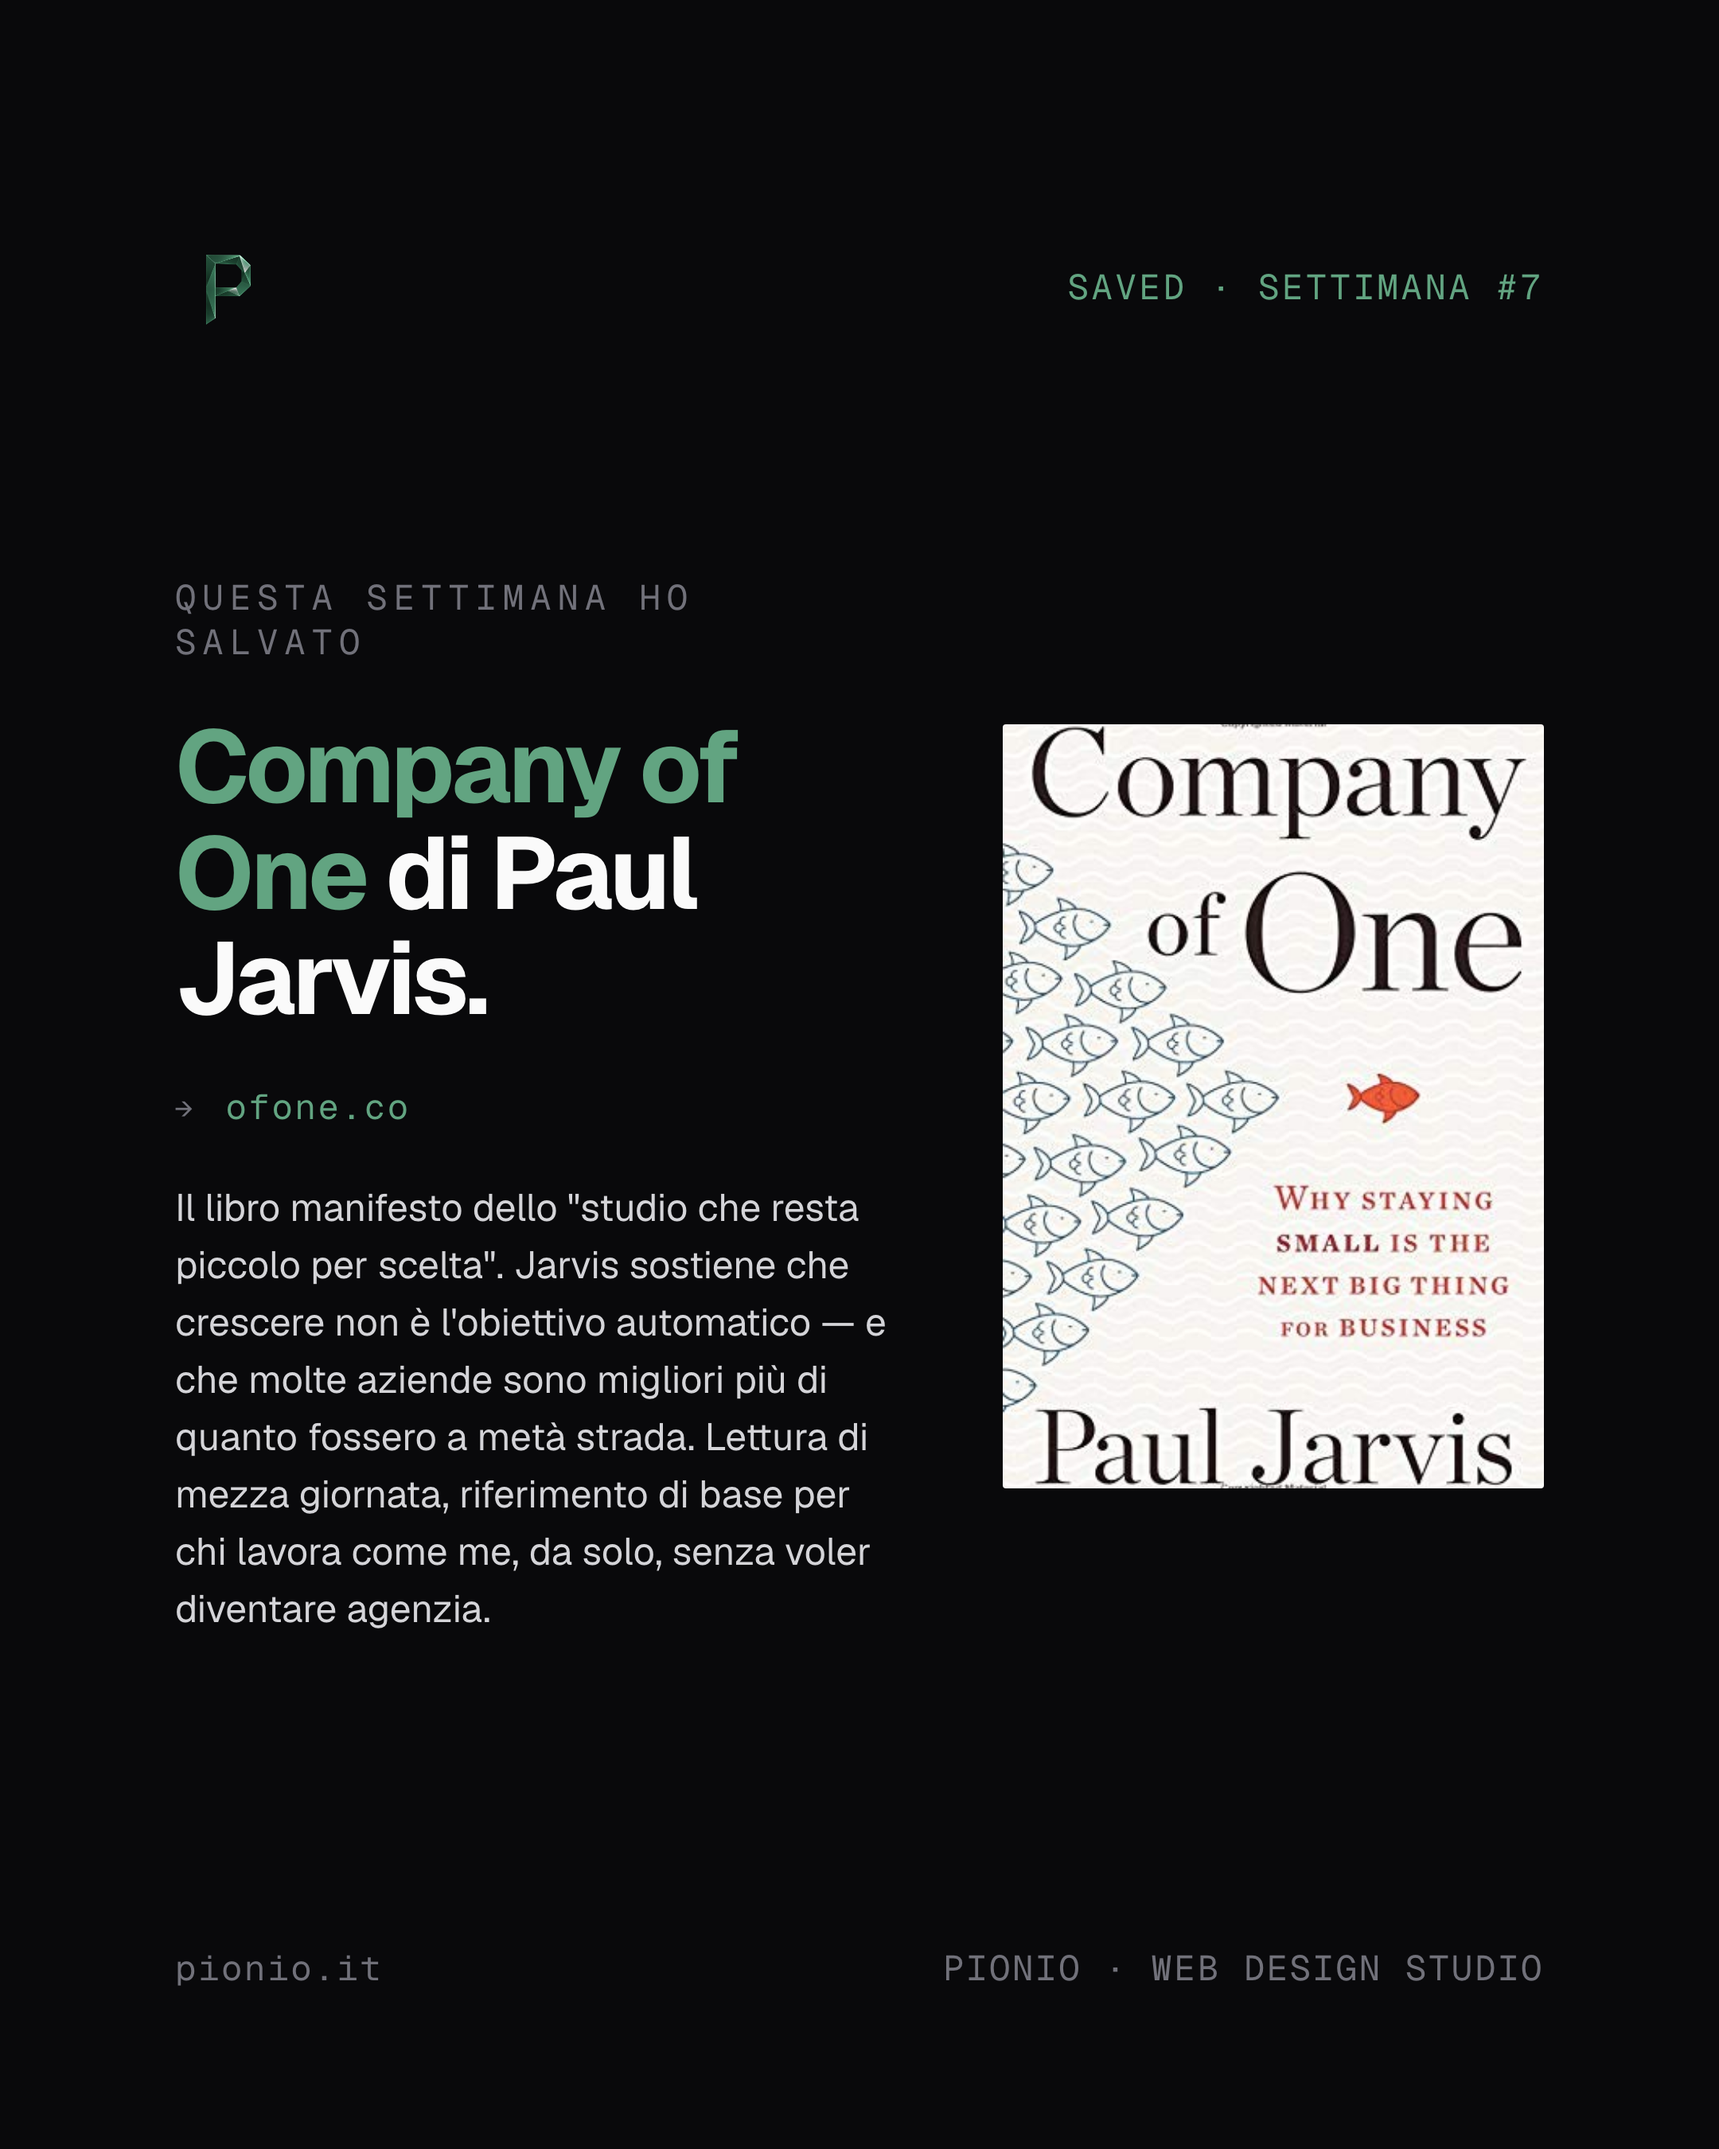
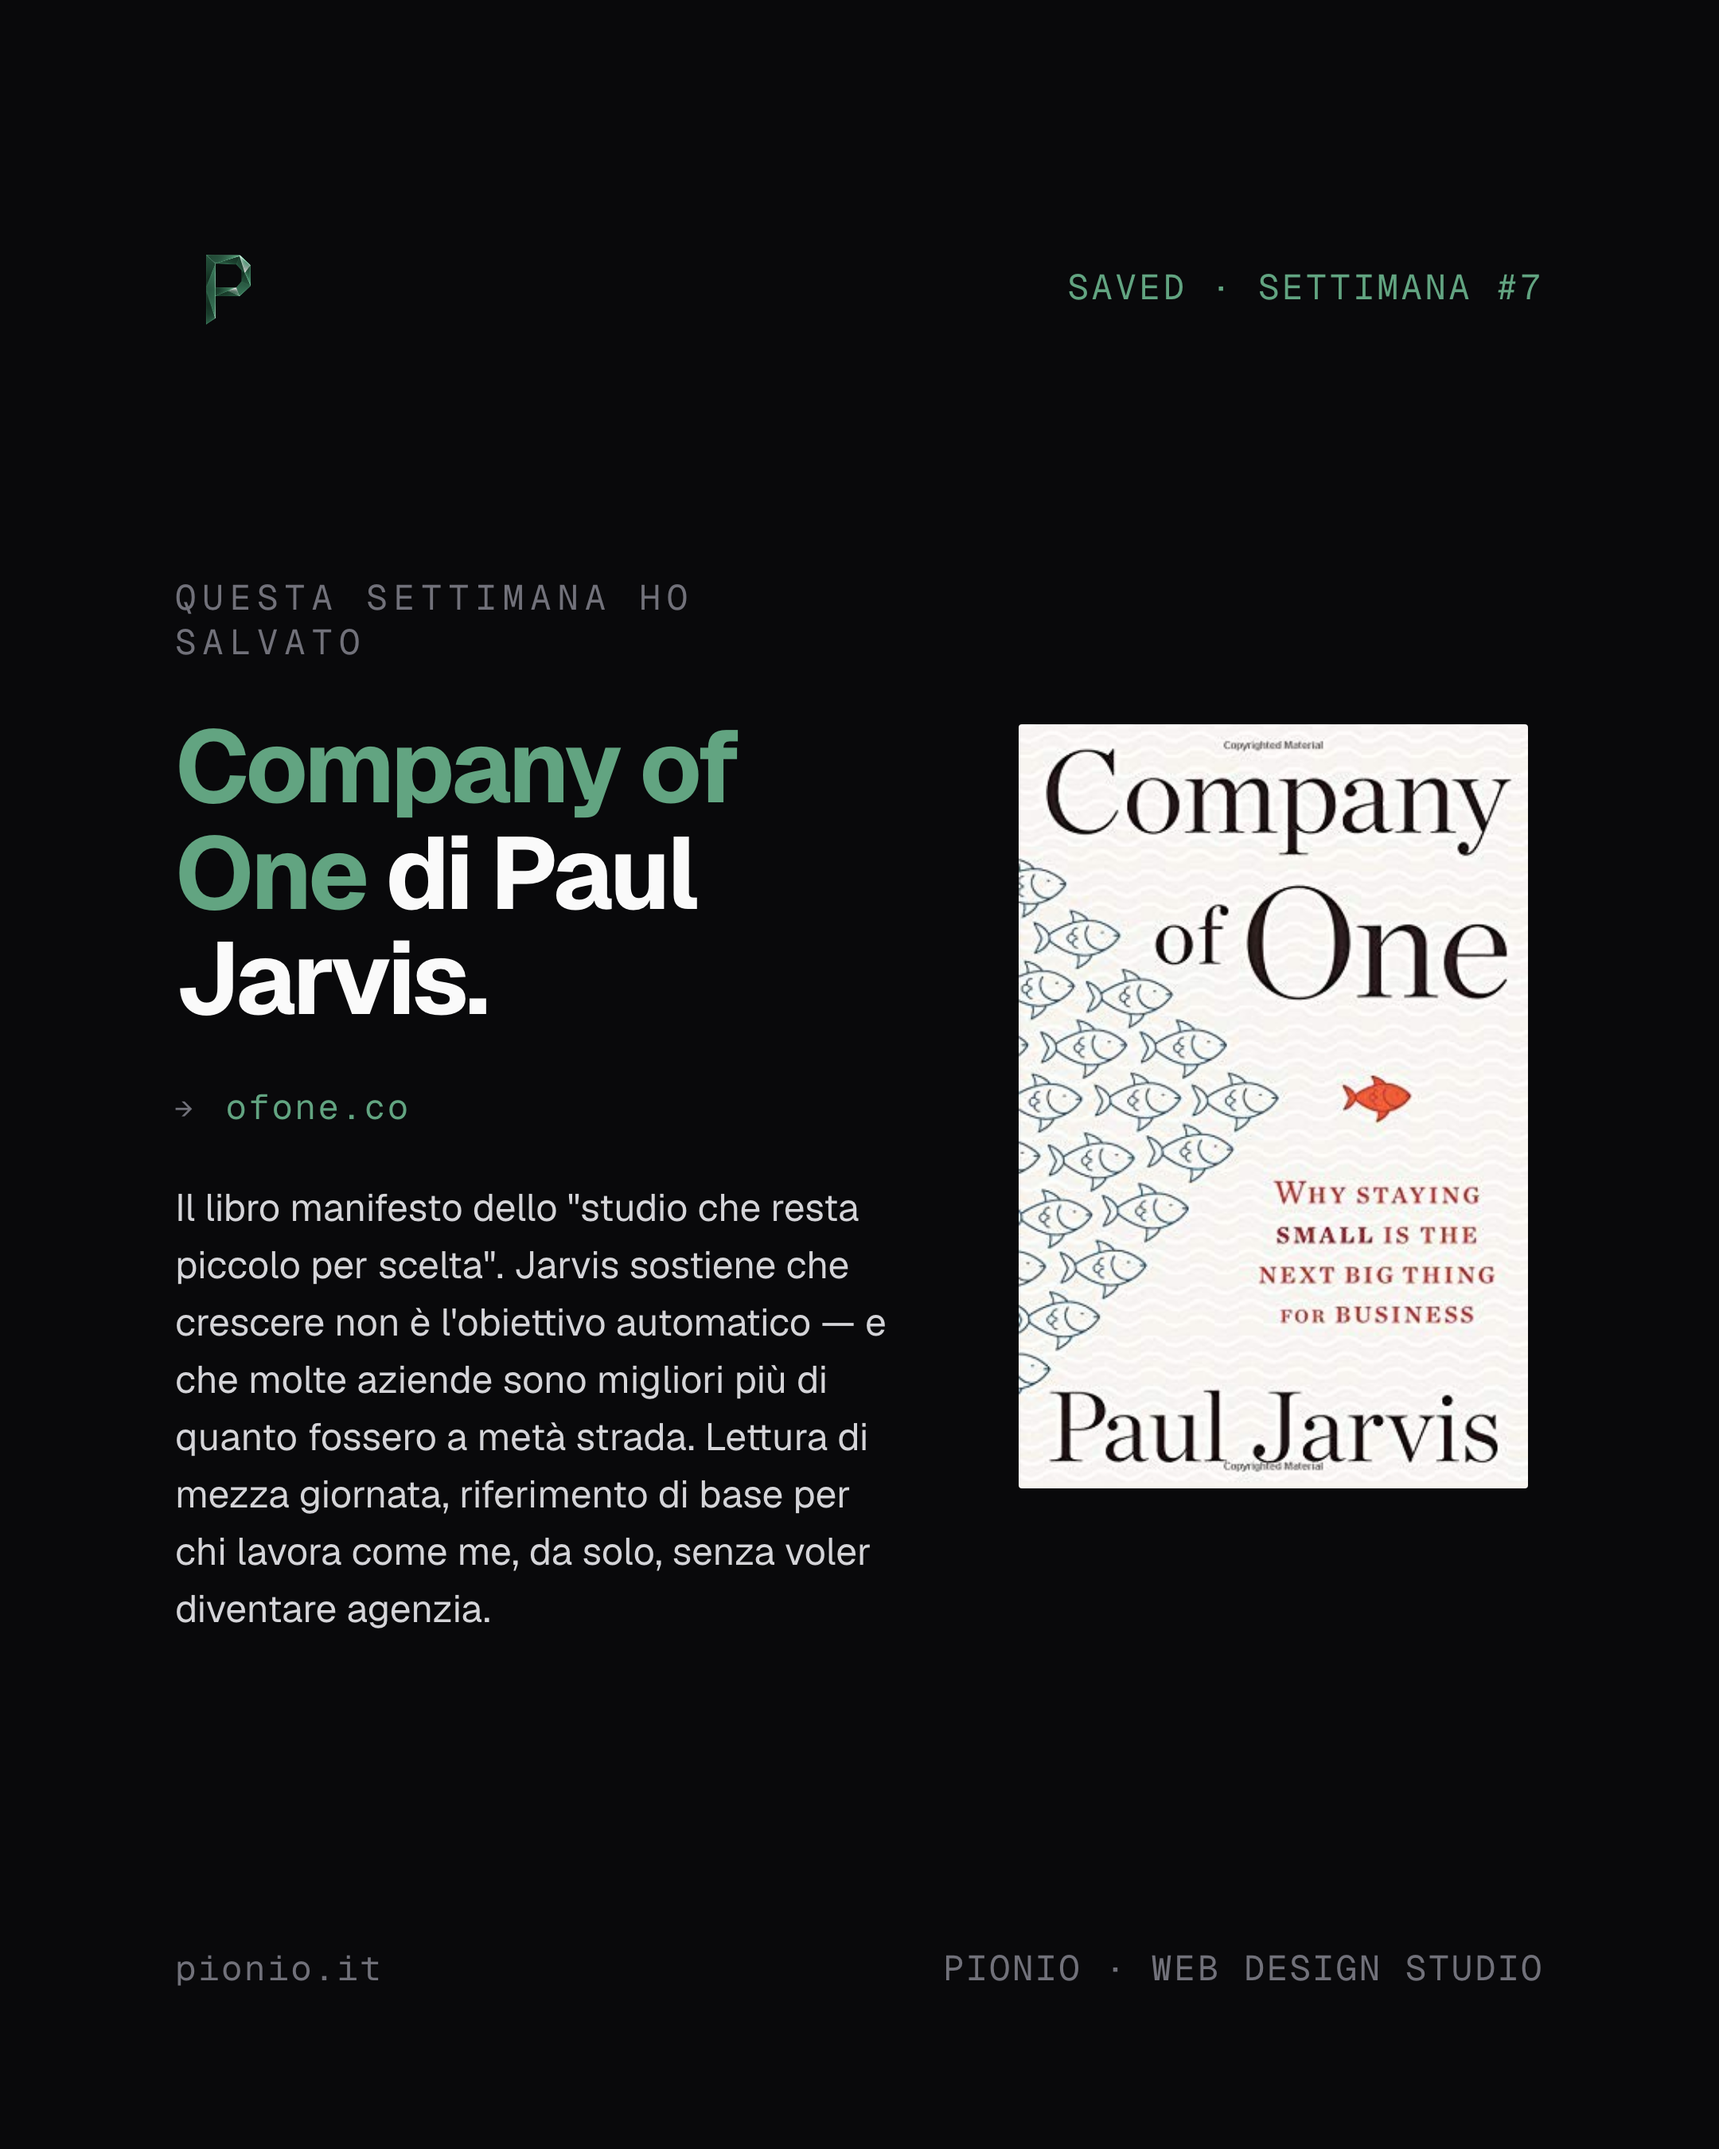
fix(instagram): cover libri Saved — object-fit contain (era cover, tagliava lateralmente)

Changed region(s): [[0.5583, 0.3422, 0.8995, 0.7156]]

diff --git a/instagram/content/settimana-07-giu-2026/6-sab-4-19-saved-company-of-one/src/slides.html b/instagram/content/settimana-07-giu-2026/6-sab-4-19-saved-company-of-one/src/slides.html
@@ -32,7 +32,7 @@
   .asset { width: 340px; height: 480px; display: flex; align-items: center; justify-content: center; }
   .asset img { max-width: 100%; max-height: 100%; object-fit: contain; }
   .asset.invert img { filter: brightness(0) invert(1); }
-  .asset.cover img { width: 100%; height: 100%; object-fit: cover; border-radius: 2px; }
+  .asset.cover img { max-width: 100%; max-height: 100%; width: auto; height: 100%; object-fit: contain; border-radius: 2px; }
 
   .footer { display: flex; align-items: flex-end; justify-content: space-between; }
   .footer-url, .footer-tag { font-family: "Geist Mono", monospace; font-size: 22px; color: var(--muted-dim); letter-spacing: 0.06em; }

diff --git a/instagram/content/settimana-08-lug-2026/6-sab-11-19-saved-design-is-a-job/src/slides.html b/instagram/content/settimana-08-lug-2026/6-sab-11-19-saved-design-is-a-job/src/slides.html
@@ -32,7 +32,7 @@
   .asset { width: 340px; height: 480px; display: flex; align-items: center; justify-content: center; }
   .asset img { max-width: 100%; max-height: 100%; object-fit: contain; }
   .asset.invert img { filter: brightness(0) invert(1); }
-  .asset.cover img { width: 100%; height: 100%; object-fit: cover; border-radius: 2px; }
+  .asset.cover img { max-width: 100%; max-height: 100%; width: auto; height: 100%; object-fit: contain; border-radius: 2px; }
 
   .footer { display: flex; align-items: flex-end; justify-content: space-between; }
   .footer-url, .footer-tag { font-family: "Geist Mono", monospace; font-size: 22px; color: var(--muted-dim); letter-spacing: 0.06em; }

diff --git a/instagram/content/settimana-09-lug-2026/6-sab-18-19-saved-mom-test/src/slides.html b/instagram/content/settimana-09-lug-2026/6-sab-18-19-saved-mom-test/src/slides.html
@@ -32,7 +32,7 @@
   .asset { width: 340px; height: 480px; display: flex; align-items: center; justify-content: center; }
   .asset img { max-width: 100%; max-height: 100%; object-fit: contain; }
   .asset.invert img { filter: brightness(0) invert(1); }
-  .asset.cover img { width: 100%; height: 100%; object-fit: cover; border-radius: 2px; }
+  .asset.cover img { max-width: 100%; max-height: 100%; width: auto; height: 100%; object-fit: contain; border-radius: 2px; }
 
   .footer { display: flex; align-items: flex-end; justify-content: space-between; }
   .footer-url, .footer-tag { font-family: "Geist Mono", monospace; font-size: 22px; color: var(--muted-dim); letter-spacing: 0.06em; }

diff --git a/instagram/content/settimana-10-lug-2026/6-sab-25-19-saved-refactoring-ui/src/slides.html b/instagram/content/settimana-10-lug-2026/6-sab-25-19-saved-refactoring-ui/src/slides.html
@@ -32,7 +32,7 @@
   .asset { width: 340px; height: 480px; display: flex; align-items: center; justify-content: center; }
   .asset img { max-width: 100%; max-height: 100%; object-fit: contain; }
   .asset.invert img { filter: brightness(0) invert(1); }
-  .asset.cover img { width: 100%; height: 100%; object-fit: cover; border-radius: 2px; }
+  .asset.cover img { max-width: 100%; max-height: 100%; width: auto; height: 100%; object-fit: contain; border-radius: 2px; }
 
   .footer { display: flex; align-items: flex-end; justify-content: space-between; }
   .footer-url, .footer-tag { font-family: "Geist Mono", monospace; font-size: 22px; color: var(--muted-dim); letter-spacing: 0.06em; }

diff --git a/instagram/content/_rebuild-saved-slides.py b/instagram/content/_rebuild-saved-slides.py
@@ -61,7 +61,7 @@ TEMPLATE = '''<!doctype html>
   .asset {{ width: 340px; height: 480px; display: flex; align-items: center; justify-content: center; }}
   .asset img {{ max-width: 100%; max-height: 100%; object-fit: contain; }}
   .asset.invert img {{ filter: brightness(0) invert(1); }}
-  .asset.cover img {{ width: 100%; height: 100%; object-fit: cover; border-radius: 2px; }}
+  .asset.cover img {{ max-width: 100%; max-height: 100%; width: auto; height: 100%; object-fit: contain; border-radius: 2px; }}
 
   .footer {{ display: flex; align-items: flex-end; justify-content: space-between; }}
   .footer-url, .footer-tag {{ font-family: "Geist Mono", monospace; font-size: 22px; color: var(--muted-dim); letter-spacing: 0.06em; }}
